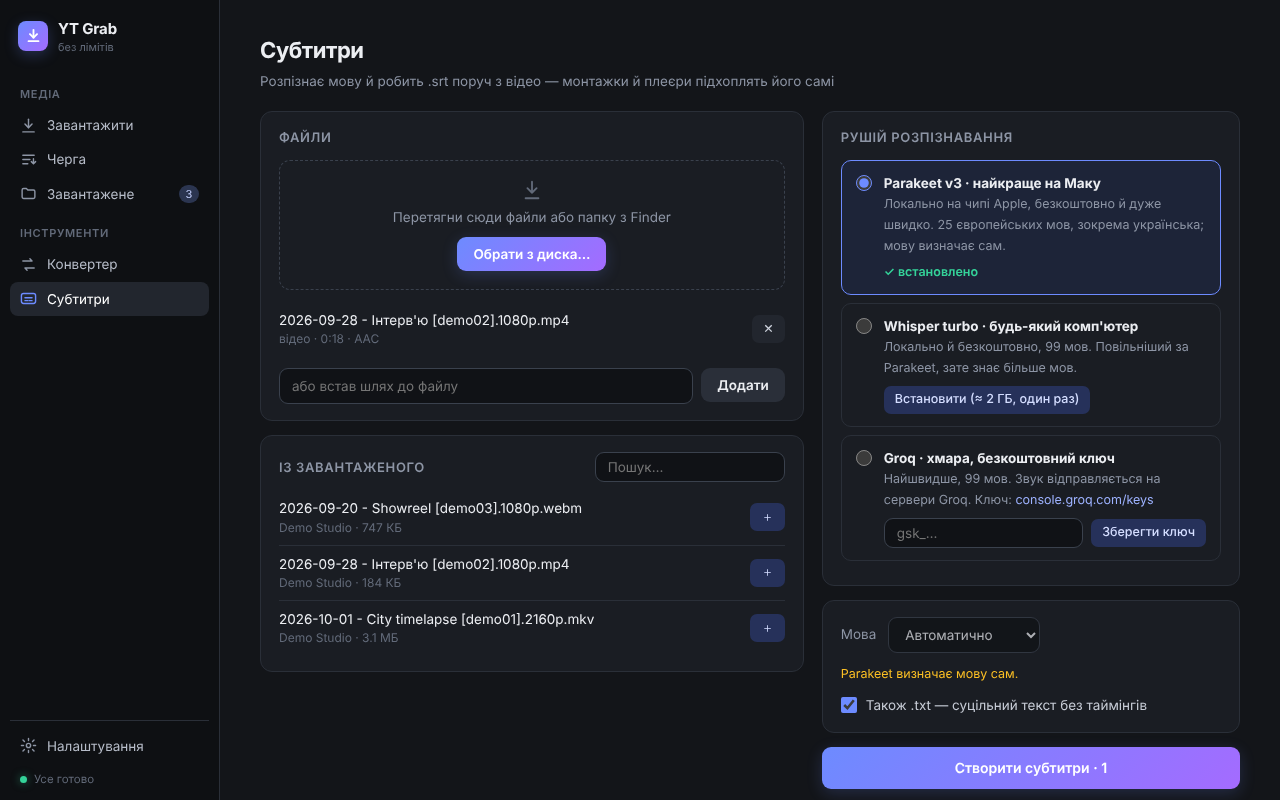
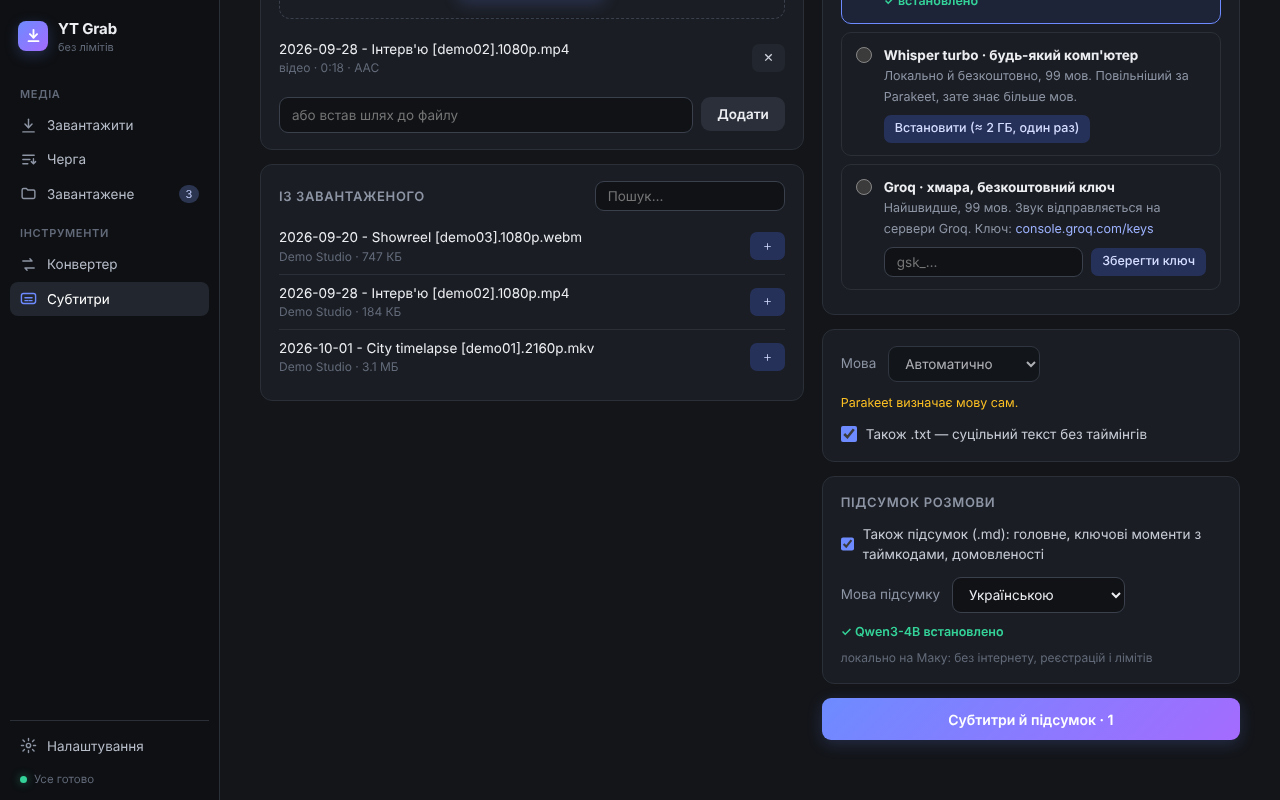
README: show the summary card and example SRT/summary output
Claude-Session: https://claude.ai/code/session_01HLkL6QWVp2joQWSzi6EvHT

diff --git a/README.md b/README.md
@@ -32,7 +32,58 @@
 
 | Конвертер | Субтитри |
 |---|---|
-| <img src="docs/converter.png" alt="Конвертер"> | <img src="docs/subtitles.png" alt="Субтитри"> |
+| <img src="docs/converter.png" alt="Конвертер"> | <img src="docs/subtitles.png" alt="Субтитри й підсумок"> |
+
+### Що виходить із «Субтитрів»
+Поруч із відео з'являються готові файли — `Інтерв'ю.srt`, за бажанням `Інтерв'ю.txt` і `Інтерв'ю — підсумок.md`.
+
+<table>
+<tr><th>Субтитри (.srt)</th><th>Підсумок (.md)</th></tr>
+<tr><td valign="top">
+
+```
+1
+00:00:00,000 --> 00:00:04,400
+Привіт, сьогодні обговорюємо
+зйомку рекламного ролика.
+
+2
+00:00:04,800 --> 00:00:09,200
+Знімаємо в суботу о десятій
+ранку в студії на Подолі.
+
+3
+00:00:09,600 --> 00:00:14,000
+Бюджет на оренду світла —
+двадцять тисяч гривень.
+```
+
+До 2 рядків по 42 символи, до 6 секунд на титр,
+нові титри — на паузах і в кінці речень.
+Premiere, DaVinci, CapCut і плеєри підхоплюють самі.
+
+</td><td valign="top">
+
+```markdown
+## Коротко
+Команда планує зйомку рекламного
+ролика в суботу.
+
+## Головні думки
+- Зйомка в студії на Подолі
+- Бюджет на світло 20 000 грн
+
+## Ключові моменти
+- [0:04] дата й місце зйомки
+- [0:09] бюджет на світло
+
+## Домовленості та наступні кроки
+- Слава — сценарій до четверга
+- Олена — кастинг акторів
+```
+
+</td></tr>
+</table>
 
 ## Встановлення
 
